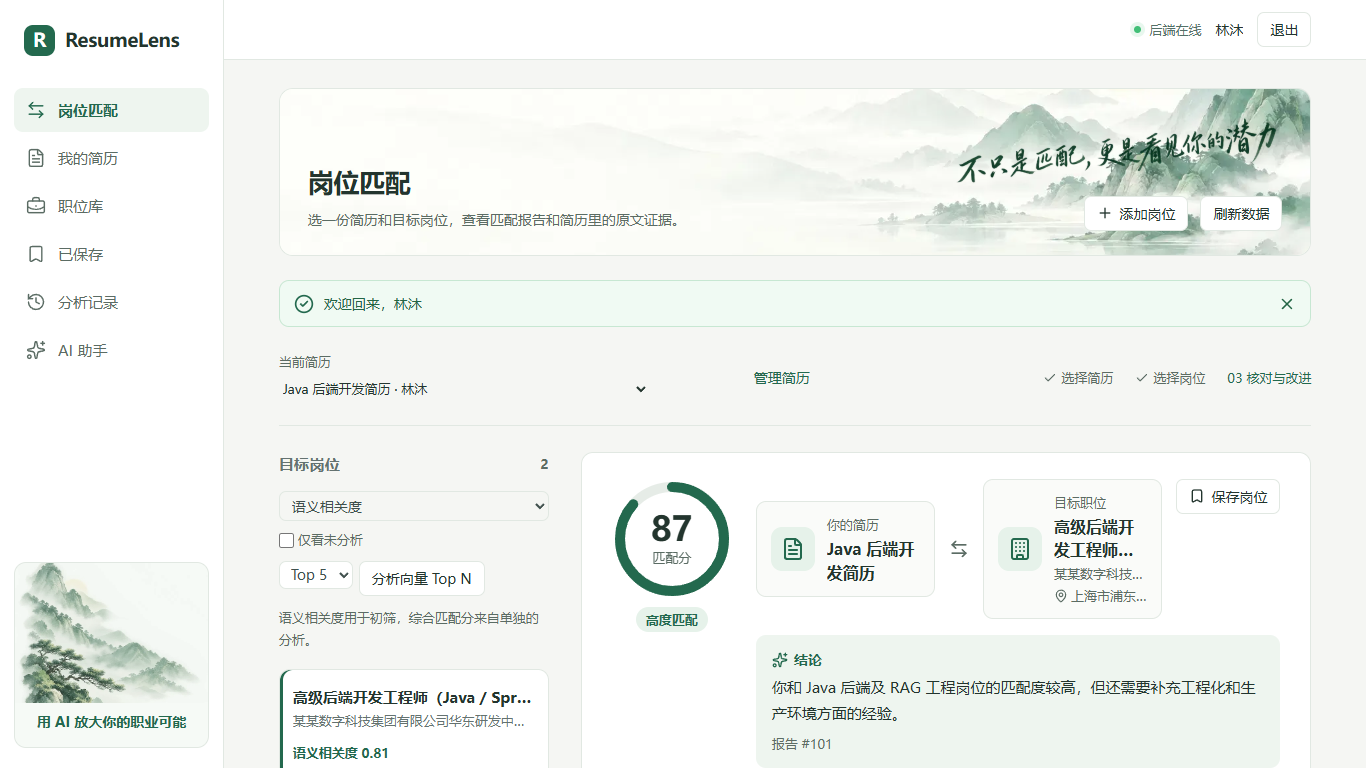
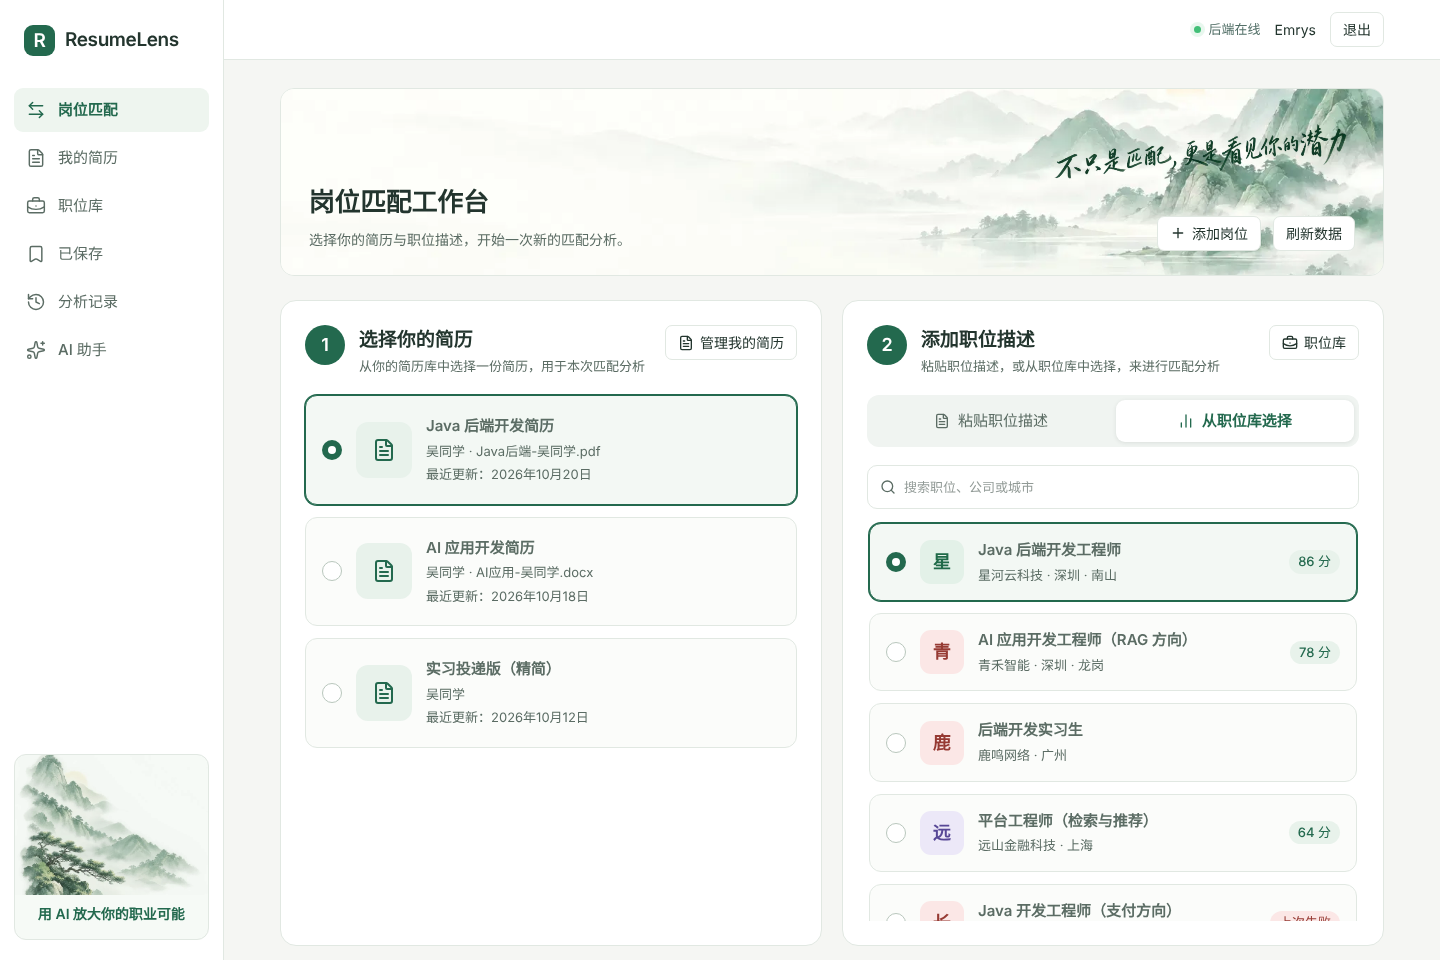
docs: README 换上第二轮改版截图
- 工作台、匹配报告、空账号引导、窄屏报告按新界面重拍
- 新增登录页、职位库、我的简历、分析记录四张截图
- 改写新版界面说明：工作台流程、职位库 / 简历 / 分析记录

diff --git a/README.md b/README.md
@@ -24,11 +24,15 @@
 
 ### 新版工作台与报告
 
-**水墨工作台 · 岗位列表与报告并排**：顶部山水横幅、侧栏插画和深绿卡片沿用统一配色。岗位按语义相关度初筛，报告集中展示匹配分、简历与目标职位、结论以及结构化优势和缺口；检索参数收在「检索详情」中。
+**岗位匹配工作台**：左边选一份简历，右边粘贴职位描述或从职位库挑一个岗位，点「开始分析」生成报告。粘贴的职位会先存进职位库，下次可以直接选；已经分析过的组合直接「查看报告」，不重复调用模型。
 
-> 新版配图来自已合并的 [界面改版 PR #72](https://github.com/Emryswu/ResumeLens/pull/72) 与 [助手面板 PR #73](https://github.com/Emryswu/ResumeLens/pull/73)，均为实际页面截图。报告使用离线 mock 演示数据；助手的 SSE 事件使用固定脚本，**未调用真实大模型**。报告中的长岗位名、公司名和地点用于演示截断与换行。展示图随 README 保存在 `docs/screenshots/`，使用相对路径引用，不依赖临时截图分支。
+> 配图来自第二轮改版 [#77](https://github.com/Emryswu/ResumeLens/pull/77)–[#81](https://github.com/Emryswu/ResumeLens/pull/81) 与助手面板 [PR #73](https://github.com/Emryswu/ResumeLens/pull/73)，均为实际页面截图。页面数据来自本地 mock 后端，报告为离线 mock 演示数据；助手的 SSE 事件使用固定脚本，**未调用真实大模型**。展示图随 README 保存在 `docs/screenshots/`，使用相对路径引用，不依赖临时截图分支。
 
-![新版水墨工作台与结构化匹配报告（mock 演示数据）](docs/screenshots/09-workspace-report-full.png)
+![岗位匹配工作台：左选简历，右粘贴职位描述或从职位库选择（mock 演示数据）](docs/screenshots/20-workbench.png)
+
+**匹配报告**：匹配分、简历与目标职位、结论，以及按类别整理的优势和缺口；检索参数收在「检索详情」中，顶部「新建匹配」回到工作台。
+
+![结构化匹配报告（mock 演示数据）](docs/screenshots/09-workspace-report-full.png)
 
 **从结论追溯原文**：优势与缺口按技术栈、项目经历、工程实践等类别展示，规则检出的缺口单独标注。点击「片段 N」在侧边抽屉查看相关原文；高亮只表示词面重叠，帮助定位，不代表语义支撑。优势旁的相似度表示检索相关程度，不是能力评分。
 
@@ -43,11 +47,17 @@
 发起完整分析仍须先经确认卡同意；同意后断流且结果未知时，页面引导到分析记录核实。若写操作结果未知，或已执行但未收到完整对话记录，当前对话不能继续或重试，可查看记录 / 报告后新开对话。
 
 <details>
-<summary>窄屏界面与更多新版截图</summary>
+<summary>职位库、简历、分析记录与窄屏截图</summary>
 
-[工作台首屏](docs/screenshots/11-workspace-report.png) · [空账号引导](docs/screenshots/12-workspace-empty.png) · [助手回答与摘要行](docs/screenshots/13-assistant-summary.png)
+**职位库、我的简历与分析记录**：职位库按与当前简历的语义相关度排序，可对前 N 个逐个精析；我的简历支持拖拽上传，上传前在本地校验格式与大小；分析记录汇总最高分与 80 分以上的记录，可按时间和已收藏岗位筛选。
 
-窄屏下重新排列报告与岗位列表，原文和处理过程面板从底部弹出；面板支持 Esc 关闭，焦点回到最后点击的入口。以下为 390px 宽截图，数据来源同上。
+| 职位库 | 我的简历 | 分析记录 |
+| --- | --- | --- |
+| ![职位库](docs/screenshots/17-jobs.png) | ![我的简历](docs/screenshots/18-resumes.png) | ![分析记录](docs/screenshots/19-history.png) |
+
+[登录页](docs/screenshots/16-login.png) · [工作台首屏](docs/screenshots/11-workspace-report.png) · [空账号引导](docs/screenshots/12-workspace-empty.png) · [助手回答与摘要行](docs/screenshots/13-assistant-summary.png)
+
+窄屏下工作台、报告与列表改为单列，原文和处理过程面板从底部弹出；面板支持 Esc 关闭，焦点回到最后点击的入口。以下为 390px 宽截图，数据来源同上。
 
 | 匹配报告 | 助手处理过程 |
 | --- | --- |
